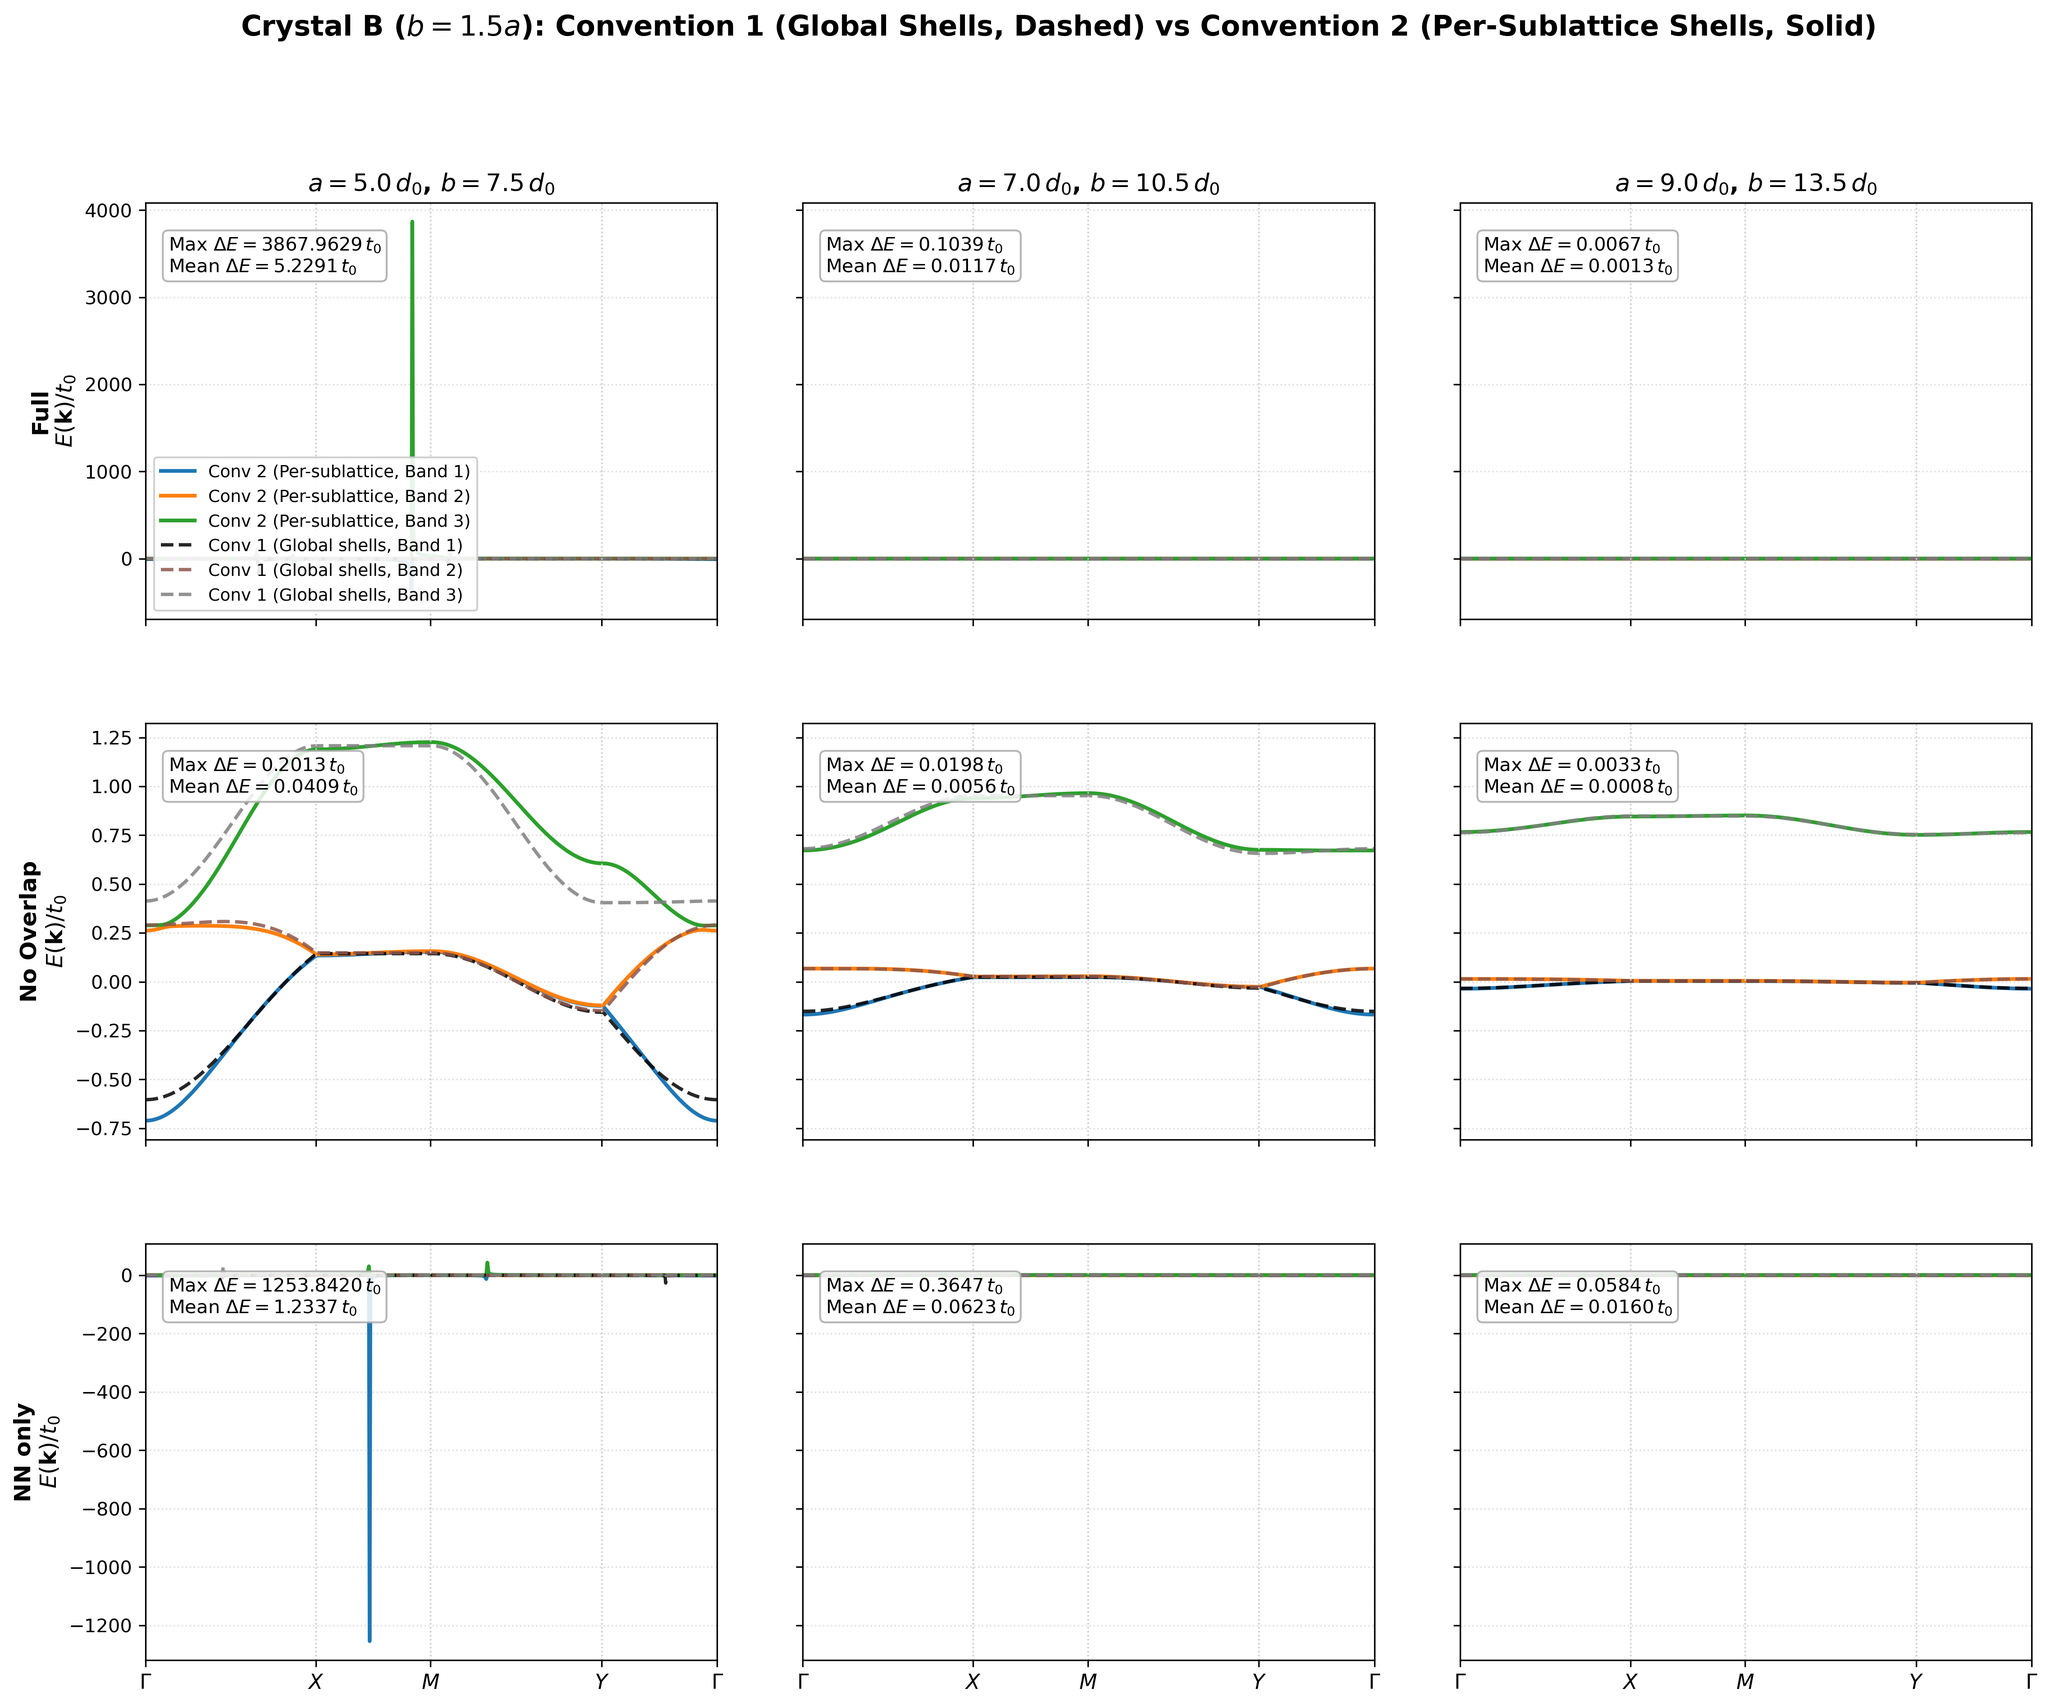
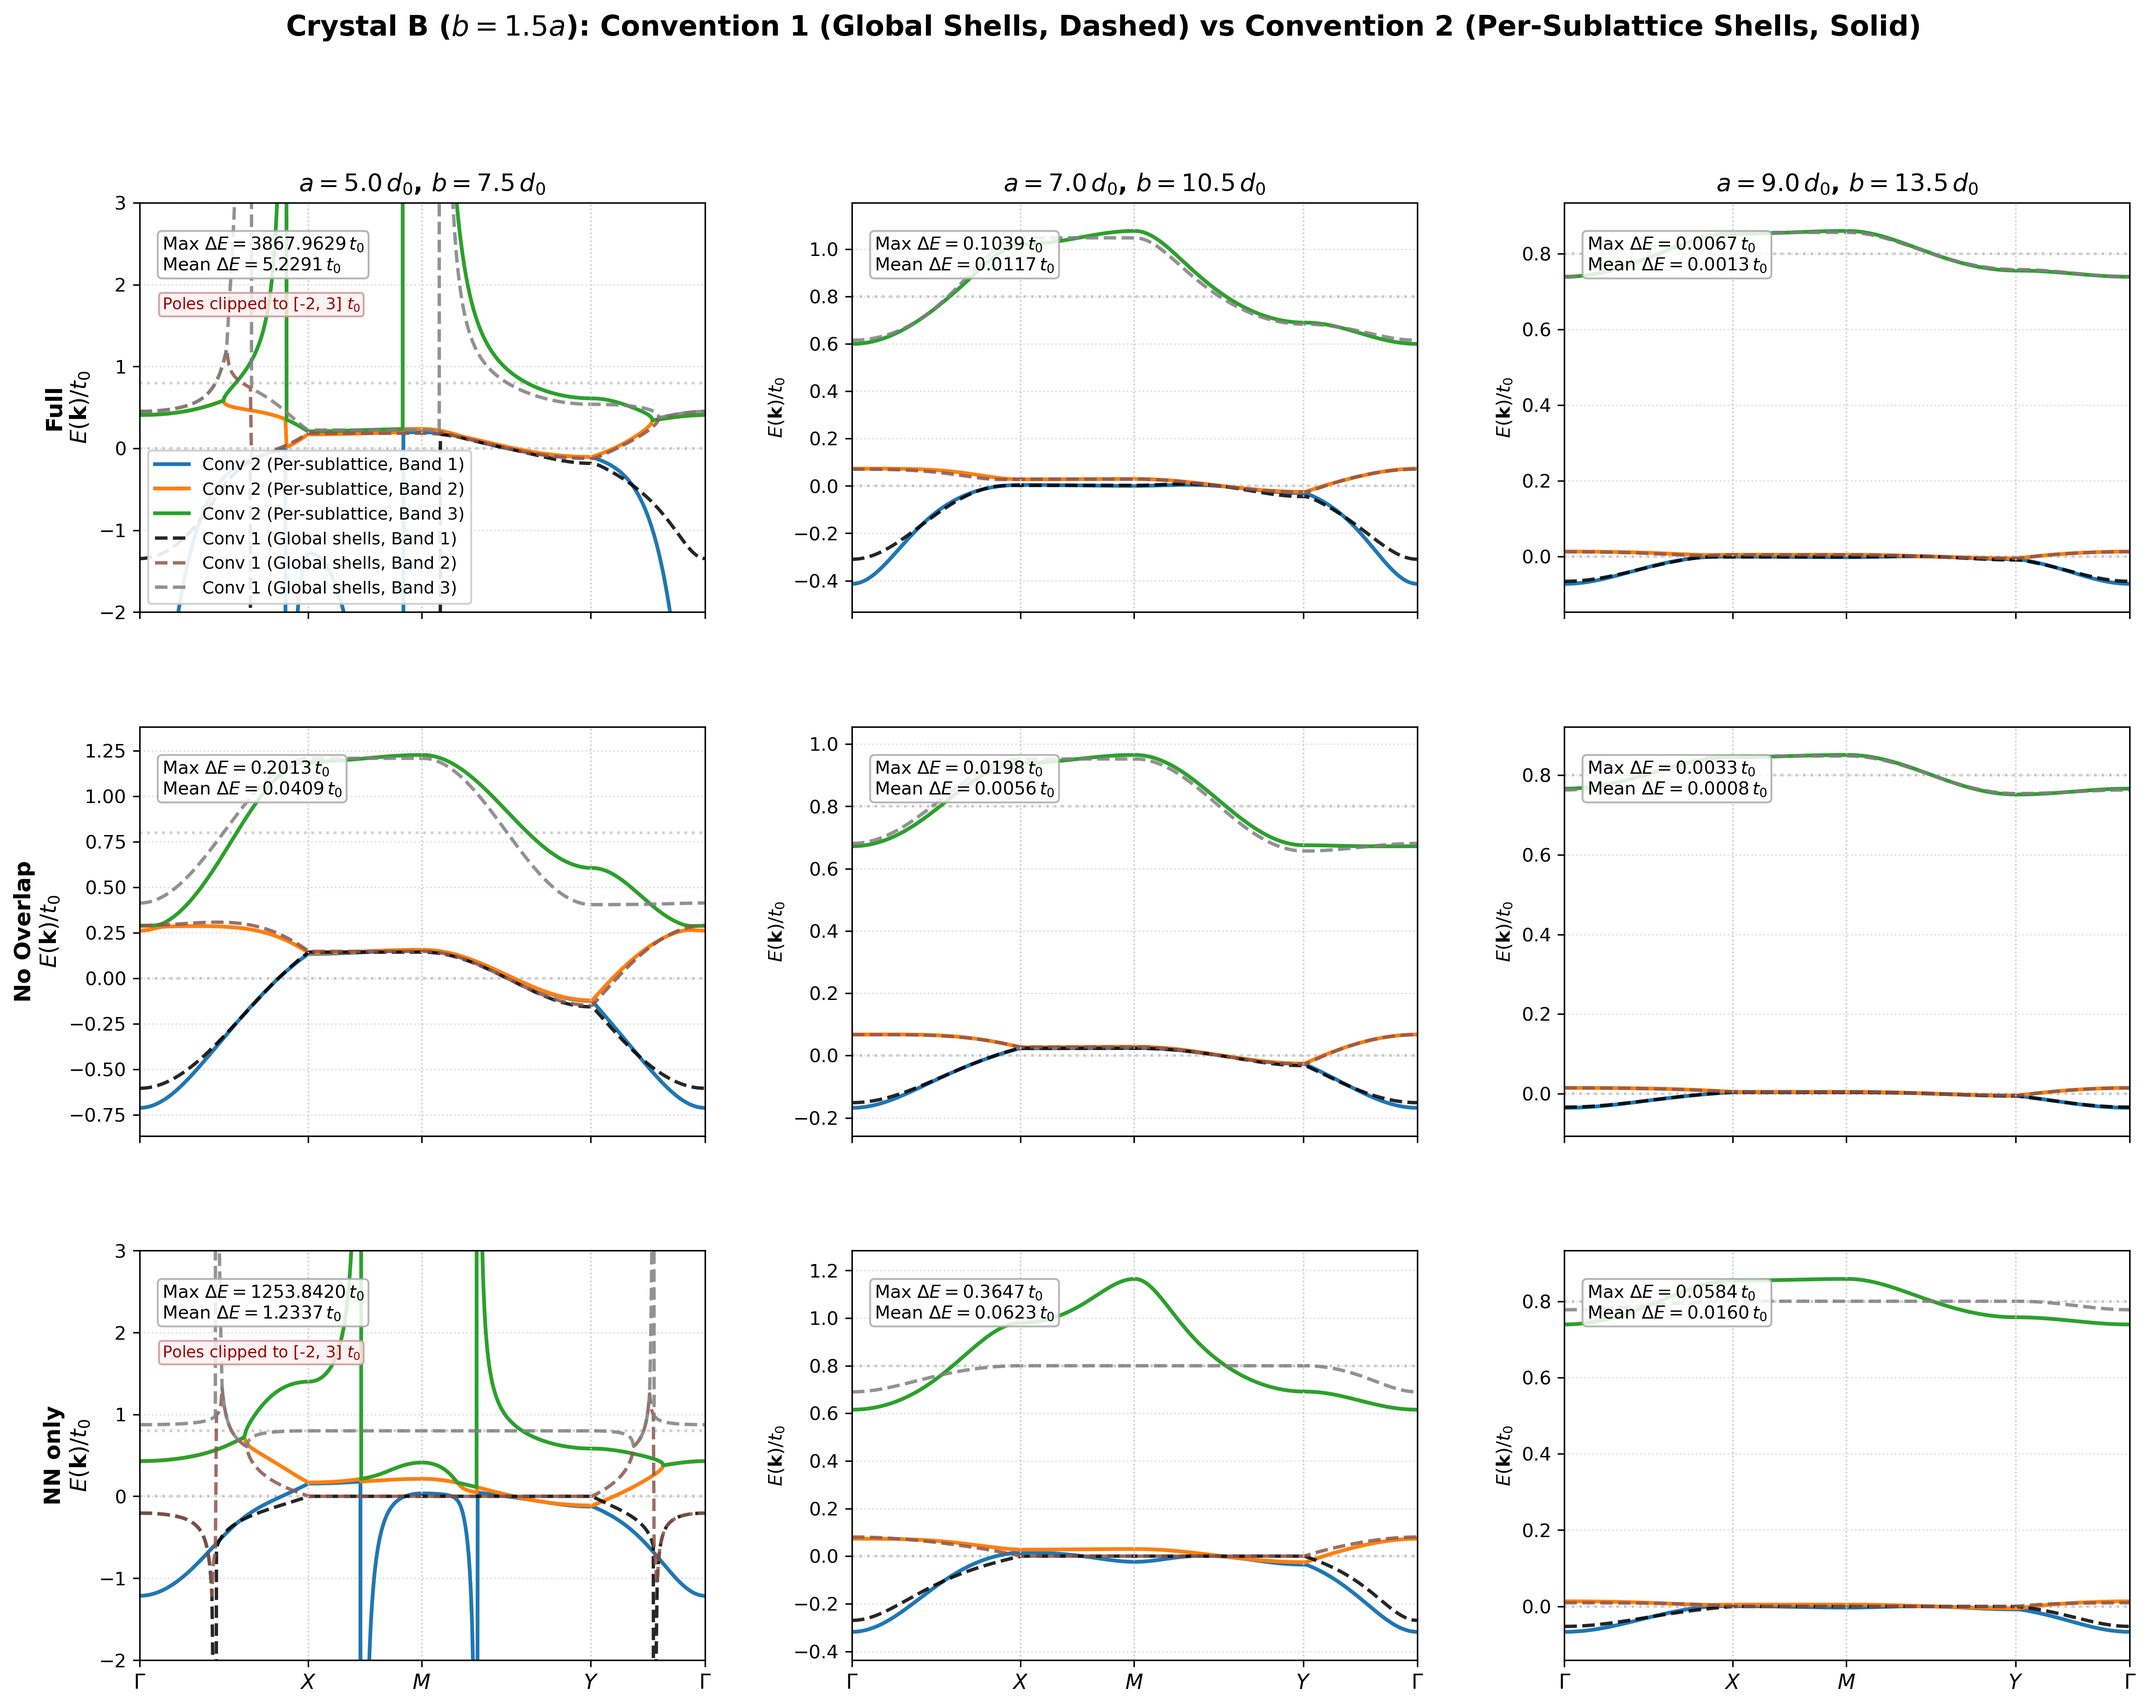
fix(hw2): scale subplots individually and clip singularities in convention comparison overlay

diff --git a/HW2/compare_conventions.py b/HW2/compare_conventions.py
@@ -85,10 +85,10 @@ def run_comparison():
             print(f"{mode:<15} | {max_diff:<16.5f} | {mean_diff:<16.5f} | {rms_diff:<16.5f} | Near {label_near} (Band {max_band})")
 
     # --------------------------------------------------------------------------
-    # 2. Plotting: Comprehensive 3x3 Overlay Figure
+    # 2. Plotting: Comprehensive 3x3 Overlay Figure (Individually Scaled Subplots)
     # --------------------------------------------------------------------------
-    fig, axes = plt.subplots(3, 3, figsize=(18, 14), sharey='row', sharex='col')
-    plt.subplots_adjust(hspace=0.25, wspace=0.15)
+    fig, axes = plt.subplots(3, 3, figsize=(19, 14), sharex='col')
+    plt.subplots_adjust(hspace=0.28, wspace=0.26)
 
     band_colors = ['#1f77b4', '#ff7f0e', '#2ca02c']
 
@@ -104,6 +104,10 @@ def run_comparison():
             e1 = res['e1']
             e2 = res['e2']
 
+            # Reference lines for isolated atomic orbital energies (eps_1 = 0.0, eps_2 = 0.8)
+            ax.axhline(0.0, color='gray', linestyle=':', alpha=0.35)
+            ax.axhline(0.8, color='gray', linestyle=':', alpha=0.35)
+
             # Plot Convention 2 (Solid lines)
             for b in range(3):
                 lbl2 = f"Conv 2 (Per-sublattice, Band {b+1})" if (row_idx == 0 and col_idx == 0) else None
@@ -115,7 +119,7 @@ def run_comparison():
                 ax.plot(dists, e1[:, b], color='black' if b==0 else ('#8c564b' if b==1 else '#7f7f7f'),
                         linestyle='--', linewidth=1.8, alpha=0.85, label=lbl1)
 
-            # Format axis
+            # Format axis ticks and grid
             for tick in ticks:
                 ax.axvline(tick, color='#cccccc', linestyle=':', linewidth=0.8)
             ax.set_xticks(ticks)
@@ -123,16 +127,34 @@ def run_comparison():
             ax.set_xlim(dists[0], dists[-1])
             ax.grid(True, linestyle=':', alpha=0.4)
 
-            # Titles and labels
+            # Individual y-axis scaling & singularity management
+            all_e = np.concatenate([e1.ravel(), e2.ravel()])
+            has_singularity = (np.min(all_e) < -3.0 or np.max(all_e) > 5.0)
+
+            if has_singularity:
+                # Clamp y-limits to the physical band region so bands are not squashed by divergent poles
+                ax.set_ylim(-2.0, 3.0)
+                ax.text(0.04, 0.74, 'Poles clipped to [-2, 3] $t_0$', transform=ax.transAxes,
+                        fontsize=8.5, color='#990000',
+                        bbox=dict(boxstyle='round,pad=0.2', facecolor='#fff0f0', edgecolor='#cc9999', alpha=0.85))
+            else:
+                ymin = np.min(all_e)
+                ymax = np.max(all_e)
+                pad = 0.08 * (ymax - ymin) if ymax > ymin else 0.1
+                ax.set_ylim(ymin - pad, ymax + pad)
+
+            # Titles and y-axis labels
             if row_idx == 0:
                 ax.set_title(rf"$a = {a_val:.1f}\,d_0$, $b = {1.5*a_val:.1f}\,d_0$", fontsize=13, fontweight='bold')
             if col_idx == 0:
                 ax.set_ylabel(rf"{mode}" + "\n" + r"$E(\mathbf{k}) / t_0$", fontsize=12, fontweight='bold')
+            else:
+                ax.set_ylabel(r"$E(\mathbf{k}) / t_0$", fontsize=10)
 
             # Annotation of max difference
             ax.text(0.04, 0.92, f"Max $\\Delta E = {res['max_diff']:.4f}\\,t_0$\nMean $\\Delta E = {res['mean_diff']:.4f}\\,t_0$",
-                    transform=ax.transAxes, fontsize=10, verticalalignment='top',
-                    bbox=dict(boxstyle='round,pad=0.3', facecolor='white', alpha=0.85, edgecolor='#aaaaaa'))
+                    transform=ax.transAxes, fontsize=9.5, verticalalignment='top',
+                    bbox=dict(boxstyle='round,pad=0.25', facecolor='white', alpha=0.85, edgecolor='#aaaaaa'))
 
     axes[0, 0].legend(loc='lower left', fontsize=9, framealpha=0.9)
 
